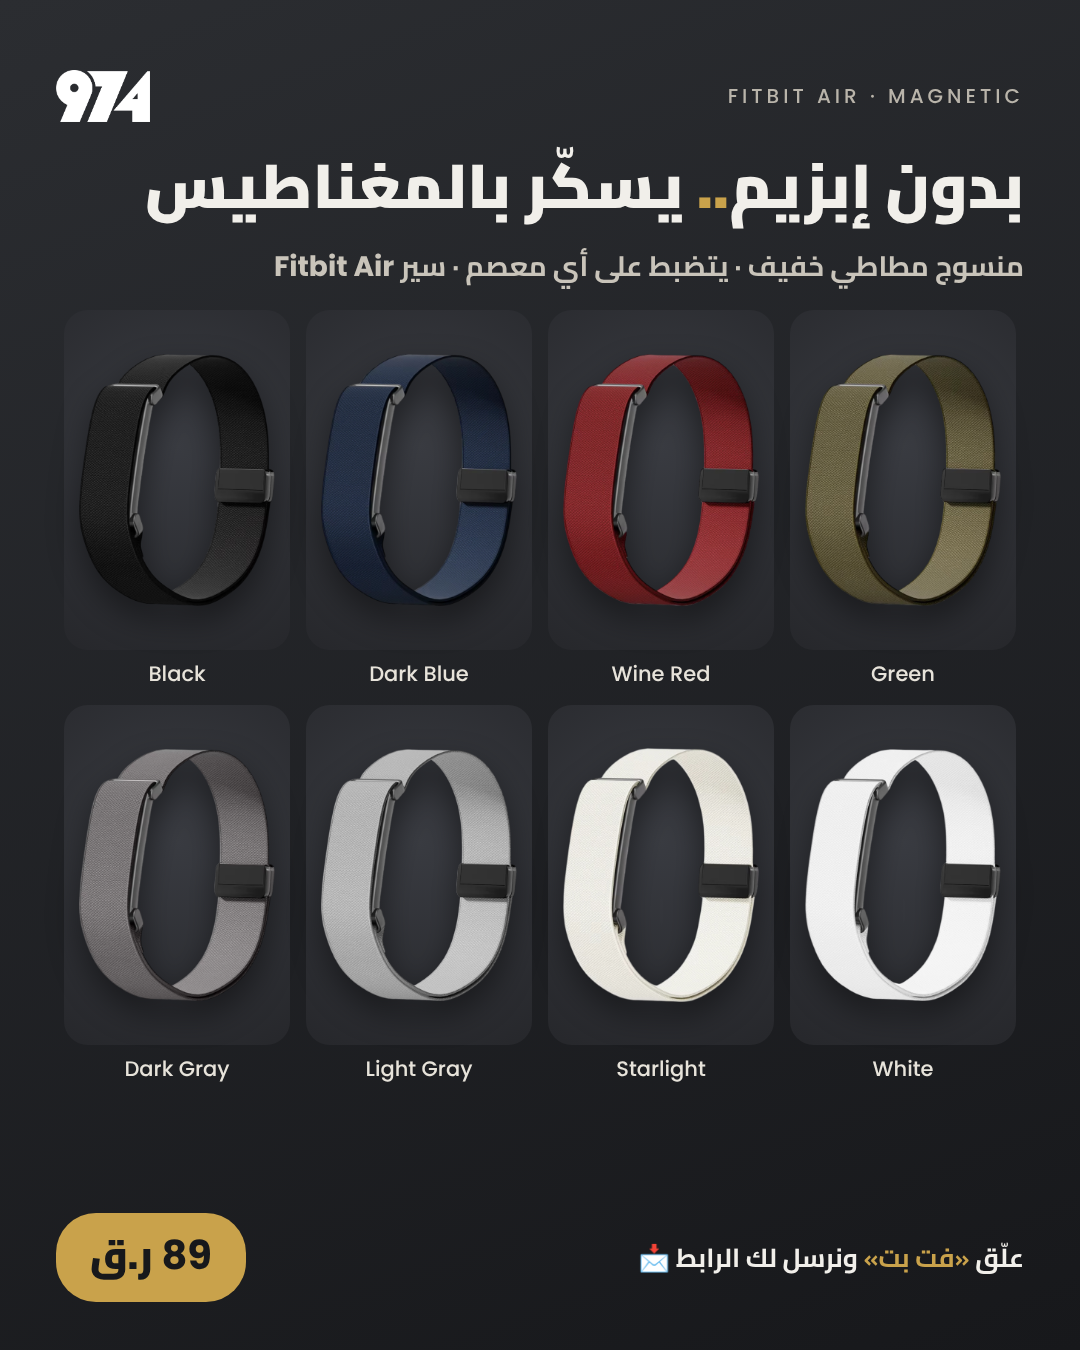
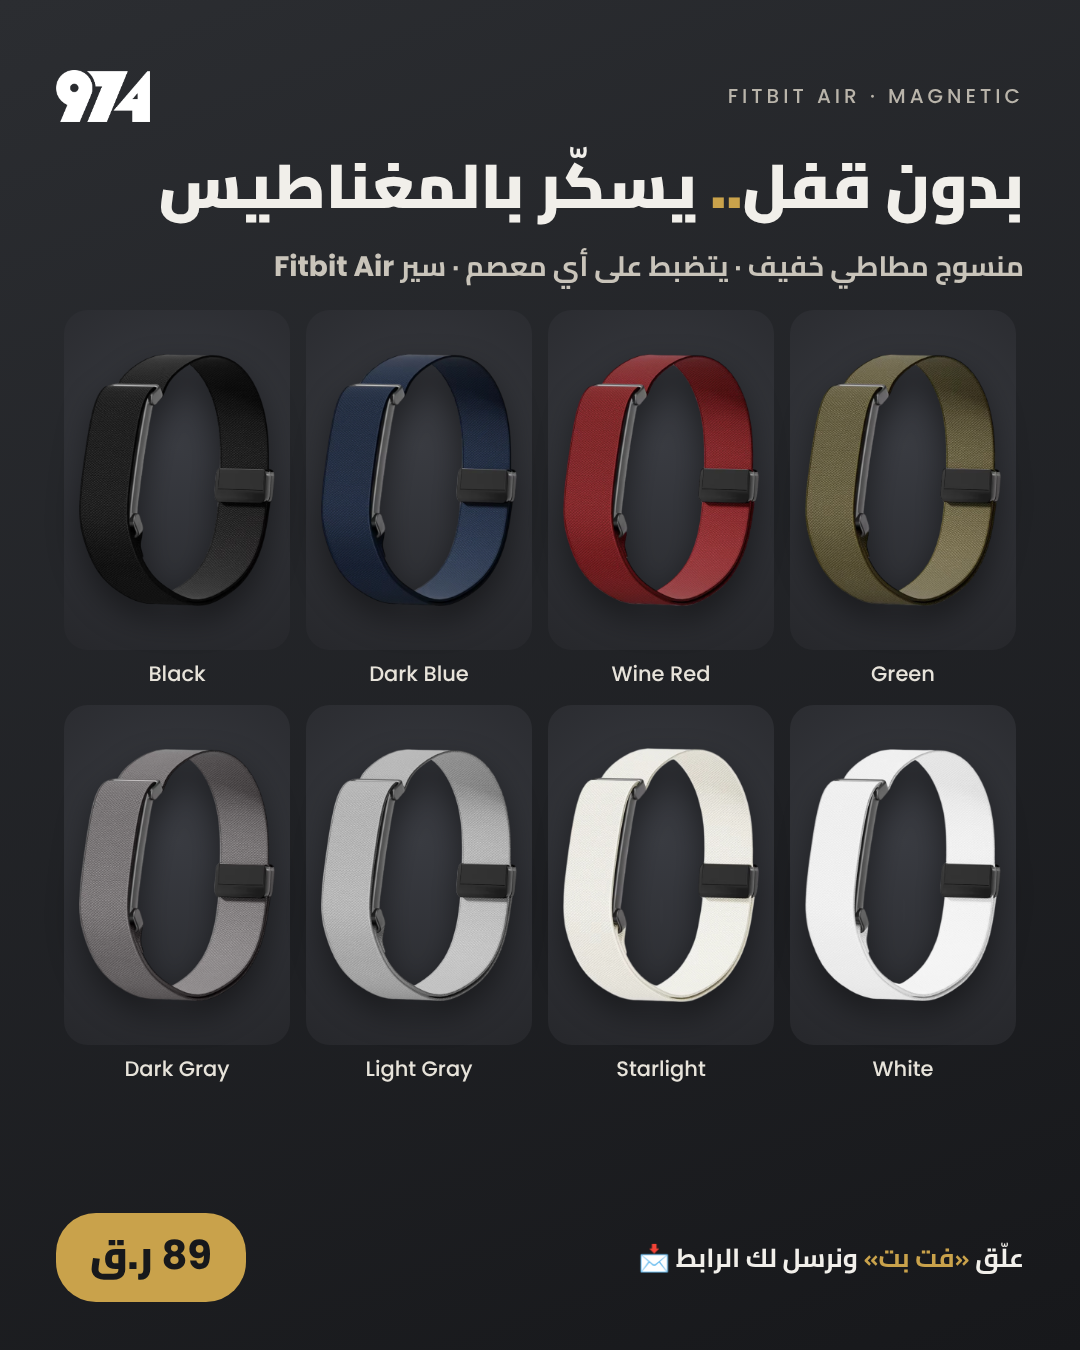
Fitbit Air magnetic: title بدون قفل
Claude-Session: https://claude.ai/code/session_01K6HDWNrArsGSJekW1VcEzV

Changed region(s): [[0.1222, 0.0933, 0.825, 0.1867]]

diff --git a/posts/2026-11/fitbit-air-magnetic/974-fitbit-air-magnetic-post.html b/posts/2026-11/fitbit-air-magnetic/974-fitbit-air-magnetic-post.html
@@ -23,7 +23,7 @@ h1 i{font-style:normal;color:#C9A24B}
 .cta em{font-style:normal;color:#C9A24B}
 </style></head><body>
 <div class="head"><img src="file:///home/claude/974-social/posts/2026-11/pilates-socks/src/logo-white.png"><span>FITBIT AIR · MAGNETIC</span></div>
-<h1>بدون إبزيم<i>..</i> يسكّر بالمغناطيس</h1>
+<h1>بدون قفل<i>..</i> يسكّر بالمغناطيس</h1>
 <div class="sub">منسوج مطاطي خفيف · يتضبط على أي معصم · سير <b>Fitbit Air</b></div>
 <div class="grid"><div class="c"><div class="t"><img src="file:///home/claude/974-social/products/fitbit-air-magnetic/black-cut.png"></div><span>Black</span></div><div class="c"><div class="t"><img src="file:///home/claude/974-social/products/fitbit-air-magnetic/dark-blue-cut.png"></div><span>Dark Blue</span></div><div class="c"><div class="t"><img src="file:///home/claude/974-social/products/fitbit-air-magnetic/wine-red-cut.png"></div><span>Wine Red</span></div><div class="c"><div class="t"><img src="file:///home/claude/974-social/products/fitbit-air-magnetic/green-cut.png"></div><span>Green</span></div><div class="c"><div class="t"><img src="file:///home/claude/974-social/products/fitbit-air-magnetic/dark-gray-cut.png"></div><span>Dark Gray</span></div><div class="c"><div class="t"><img src="file:///home/claude/974-social/products/fitbit-air-magnetic/light-gray-cut.png"></div><span>Light Gray</span></div><div class="c"><div class="t"><img src="file:///home/claude/974-social/products/fitbit-air-magnetic/starlight-cut.png"></div><span>Starlight</span></div><div class="c"><div class="t"><img src="file:///home/claude/974-social/products/fitbit-air-magnetic/white-cut.png"></div><span>White</span></div></div>
 <div class="foot"><div class="cta">علّق <em>«فت بت»</em> ونرسل لك الرابط 📩</div><div class="price"><b>89</b> ر.ق</div></div>

diff --git a/posts/2026-11/fitbit-air-magnetic/974-fitbit-air-magnetic-story.html b/posts/2026-11/fitbit-air-magnetic/974-fitbit-air-magnetic-story.html
@@ -23,7 +23,7 @@ h1 i{font-style:normal;color:#C9A24B}
 .cta em{font-style:normal;color:#C9A24B}
 </style></head><body>
 <div class="head"><img src="file:///home/claude/974-social/posts/2026-11/pilates-socks/src/logo-white.png"><span>FITBIT AIR · MAGNETIC</span></div>
-<h1>بدون إبزيم<i>..</i> يسكّر بالمغناطيس</h1>
+<h1>بدون قفل<i>..</i> يسكّر بالمغناطيس</h1>
 <div class="sub">منسوج مطاطي خفيف · يتضبط على أي معصم · سير <b>Fitbit Air</b></div>
 <div class="grid"><div class="c"><div class="t"><img src="file:///home/claude/974-social/products/fitbit-air-magnetic/black-cut.png"></div><span>Black</span></div><div class="c"><div class="t"><img src="file:///home/claude/974-social/products/fitbit-air-magnetic/dark-blue-cut.png"></div><span>Dark Blue</span></div><div class="c"><div class="t"><img src="file:///home/claude/974-social/products/fitbit-air-magnetic/wine-red-cut.png"></div><span>Wine Red</span></div><div class="c"><div class="t"><img src="file:///home/claude/974-social/products/fitbit-air-magnetic/green-cut.png"></div><span>Green</span></div><div class="c"><div class="t"><img src="file:///home/claude/974-social/products/fitbit-air-magnetic/dark-gray-cut.png"></div><span>Dark Gray</span></div><div class="c"><div class="t"><img src="file:///home/claude/974-social/products/fitbit-air-magnetic/light-gray-cut.png"></div><span>Light Gray</span></div><div class="c"><div class="t"><img src="file:///home/claude/974-social/products/fitbit-air-magnetic/starlight-cut.png"></div><span>Starlight</span></div><div class="c"><div class="t"><img src="file:///home/claude/974-social/products/fitbit-air-magnetic/white-cut.png"></div><span>White</span></div></div>
 <div class="foot"><div class="cta">علّق <em>«فت بت»</em> ونرسل لك الرابط 📩</div><div class="price"><b>89</b> ر.ق</div></div>

diff --git a/posts/2026-11/fitbit-air-magnetic/gen.py b/posts/2026-11/fitbit-air-magnetic/gen.py
@@ -31,7 +31,7 @@ h1 i{{font-style:normal;color:#C9A24B}}
 .cta em{{font-style:normal;color:#C9A24B}}
 </style></head><body>
 <div class="head"><img src="file:///home/claude/974-social/posts/2026-11/pilates-socks/src/logo-white.png"><span>FITBIT AIR · MAGNETIC</span></div>
-<h1>بدون إبزيم<i>..</i> يسكّر بالمغناطيس</h1>
+<h1>بدون قفل<i>..</i> يسكّر بالمغناطيس</h1>
 <div class="sub">منسوج مطاطي خفيف · يتضبط على أي معصم · سير <b>Fitbit Air</b></div>
 <div class="grid">{cards}</div>
 <div class="foot"><div class="cta">علّق <em>«فت بت»</em> ونرسل لك الرابط 📩</div><div class="price"><b>{PRICE}</b> ر.ق</div></div>
